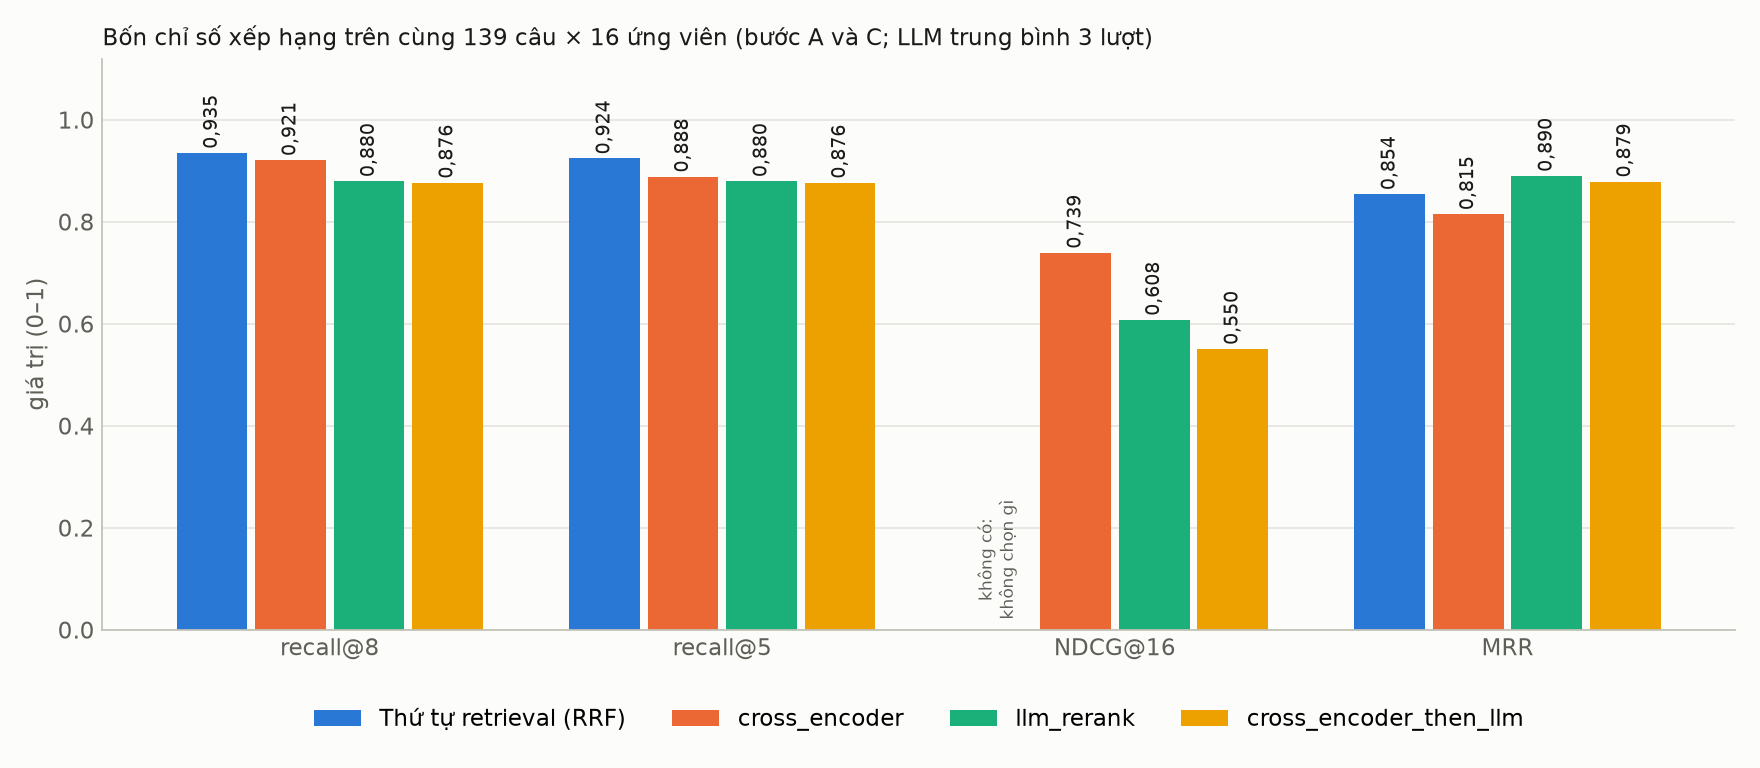
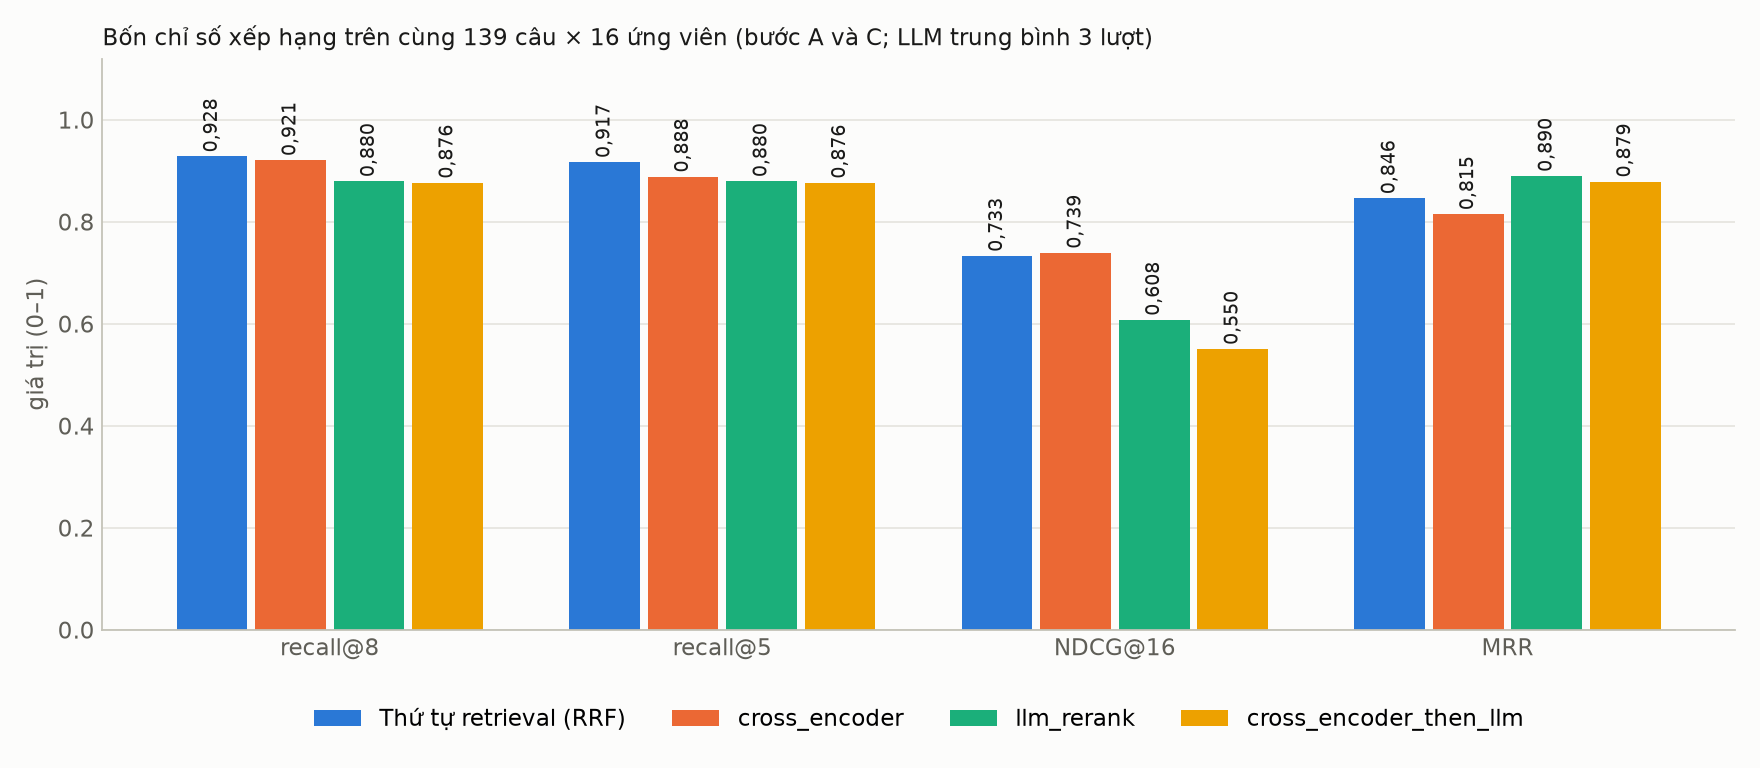
[UNISAGE-106] Báo cáo: mốc "không rerank" đo bằng biến thể none trên cùng bộ ứng viên fetch lại (0,928), sửa hình 1/4 và các bảng
Mốc 0,935 trước đây tính trên danh sách chunk đã ghi (có 37 chunk không còn fetch được), không
cùng gốc với các biến thể. Trên bộ fetch lại: none recall@8 0,928 = trần, recall@5 0,917,
NDCG@16 0,733, MRR 0,846.

diff --git a/changes/22-10-2026-CrossEncoderBenchmark/plot_recall.py b/changes/22-10-2026-CrossEncoderBenchmark/plot_recall.py
@@ -6,7 +6,7 @@ import matplotlib.pyplot as plt
 out = sys.argv[1]
 k = list(range(1, 9))
 series = [
-    ("Thứ tự retrieval (RRF, không rerank)", [0.752, 0.838, 0.867, 0.903, 0.924, 0.932, 0.935, 0.935], "#2a78d6", "o"),
+    ("Thứ tự retrieval (RRF, không rerank)", [0.745, 0.831, 0.860, 0.896, 0.917, 0.924, 0.928, 0.928], "#2a78d6", "o"),
     ("cross_encoder", [0.712, 0.766, 0.831, 0.871, 0.888, 0.906, 0.914, 0.921], "#eb6834", "s"),
     ("llm_rerank", [0.829, 0.868, 0.879, 0.880, 0.880, 0.880, 0.880, 0.880], "#1baf7a", "^"),
     ("cross_encoder_then_llm", [0.811, 0.860, 0.872, 0.874, 0.876, 0.876, 0.876, 0.876], "#eda100", "D"),
@@ -14,9 +14,9 @@ series = [
 plt.rcParams.update({"font.size": 11, "font.family": "DejaVu Sans"})
 fig, ax = plt.subplots(figsize=(10, 5.6), dpi=160)
 fig.patch.set_facecolor("#fcfcfb"); ax.set_facecolor("#fcfcfb")
-ax.axhline(0.935, color="#9a998f", linewidth=1, linestyle=(0, (4, 4)), zorder=1)
-ax.text(1.0, 0.939, "trần của bộ ứng viên 0,935 (tài liệu kỳ vọng có trong 16 ứng viên)", color="#5f5e57", fontsize=9, va="bottom")
-label_offsets = {"Thứ tự retrieval (RRF, không rerank)": 0.006, "cross_encoder": -0.006, "llm_rerank": 0.0, "cross_encoder_then_llm": -0.012}
+ax.axhline(0.928, color="#9a998f", linewidth=1, linestyle=(0, (4, 4)), zorder=1)
+ax.text(1.0, 0.932, "trần của bộ ứng viên 0,928 (tài liệu kỳ vọng có trong các ứng viên fetch lại được)", color="#5f5e57", fontsize=9, va="bottom")
+label_offsets = {"Thứ tự retrieval (RRF, không rerank)": 0.0, "cross_encoder": -0.006, "llm_rerank": 0.0, "cross_encoder_then_llm": -0.012}
 for name, ys, color, marker in series:
     ax.plot(k, ys, color=color, linewidth=2, marker=marker, markersize=7, markerfacecolor=color,
             markeredgecolor="#fcfcfb", markeredgewidth=1.5, label=name, zorder=3)
@@ -25,8 +25,8 @@ for name, ys, color, marker in series:
 ax.set_xlim(0.7, 11.3); ax.set_ylim(0.68, 0.96)
 ax.set_xticks(k); ax.set_xlabel("k (số chunk giữ đầu)")
 ax.set_ylabel("recall@k (trung bình 139 câu)")
-ax.set_yticks([0.70, 0.75, 0.80, 0.85, 0.90, 0.935])
-ax.set_yticklabels([f"{v:.3f}".replace(".", ",").rstrip("0").rstrip(",") if v != 0.935 else "0,935" for v in [0.70, 0.75, 0.80, 0.85, 0.90, 0.935]])
+ax.set_yticks([0.70, 0.75, 0.80, 0.85, 0.90, 0.928])
+ax.set_yticklabels([f"{v:.3f}".replace(".", ",").rstrip("0").rstrip(",") if v != 0.928 else "0,928" for v in [0.70, 0.75, 0.80, 0.85, 0.90, 0.928]])
 ax.grid(axis="y", color="#e6e5df", linewidth=0.8); ax.set_axisbelow(True)
 for side in ("top", "right"): ax.spines[side].set_visible(False)
 for side in ("left", "bottom"): ax.spines[side].set_color("#c3c2b7")

diff --git a/changes/22-10-2026-CrossEncoderBenchmark/plot_all.py b/changes/22-10-2026-CrossEncoderBenchmark/plot_all.py
@@ -71,7 +71,7 @@ ax.set_xticks(levels); ax.set_ylim(0, 10); ax.set_xlabel("số request đồng t
 save(f, "fig3-ce-latency-concurrency.png")
 
 # ---- Fig 4: metrics grouped bars (step A + C + baseline)
-base = {"recall@8": 0.935, "recall@5": 0.924, "NDCG@16": None, "MRR": 0.854}
+base = {"recall@8": 0.928, "recall@5": 0.917, "NDCG@16": 0.733, "MRR": 0.846}
 aggs = {"cross_encoder": ce["aggregate"]}
 for v in Cj["accuracy"]: aggs[v["variant"]] = v["aggregate"]
 metrics = ["recall@8", "recall@5", "NDCG@16", "MRR"]

diff --git a/changes/22-10-2026-CrossEncoderBenchmark/report.md b/changes/22-10-2026-CrossEncoderBenchmark/report.md
@@ -32,7 +32,7 @@ trong các bảng: mục 0.
 | Lỗi | lượt biến thể không trả kết quả (service lỗi, model lỗi, JSON hỏng, rate limit) | trong benchmark không fail-open; trong graph thật thì fail-open |
 | Lượt | số lần chạy = số câu × số lần lặp (cross-encoder 2, LLM 3) | |
 | mốc không rerank | lấy 8 chunk đầu theo thứ tự retrieval, không rerank gì | mức mà bước rerank phải vượt để có ích |
-| trần (ceiling) | recall cao nhất có thể khi chỉ chọn trong 16 ứng viên = tài liệu kỳ vọng có trong 16 ứng viên | không biến thể nào vượt được; 0,935 trên bộ này |
+| trần (ceiling) | recall cao nhất có thể khi chỉ chọn trong 16 ứng viên = tài liệu kỳ vọng có trong 16 ứng viên | không biến thể nào vượt được; 0,928 trên bộ ứng viên fetch lại |
 | RRF | Reciprocal Rank Fusion: cách hybrid trộn danh sách dense và BM25 (điểm = Σ 1/(k + hạng)) | thứ tự "retrieval" trong báo cáo là thứ tự RRF |
 | dense / cosine | tìm theo vector ngữ nghĩa, điểm cosine 0–1 (`score` của chunk) | 0,70 là điểm gán cho chunk chỉ BM25 tìm thấy |
 | BM25 / hybrid | tìm theo từ khoá; hybrid = dense + BM25 trộn bằng RRF | bật qua `RETRIEVAL_HYBRID_ENABLED` |
@@ -107,7 +107,7 @@ tiêu chí nào trượt ở ý chính (độ trễ, recall@8, recall@5 normal, 
 **MRR 0,815 so với 0,890 (tiêu chí 2).** MRR = 1/hạng của chunk đúng đầu tiên. LLM rerank chỉ giữ
 median 2 chunk và khi nó giữ được tài liệu đúng thì gần như luôn đặt ở hạng 1 (recall@1 0,829);
 cross-encoder giữ đủ 8 và ở 23 câu đặt chunk đúng ở hạng 2–4 (recall@1 0,712, thấp hơn cả thứ
-tự retrieval 0,752). Nói cách khác, cross-encoder **không xếp tốt hơn RRF ở hạng 1**, nó chỉ
+tự retrieval 0,745). Nói cách khác, cross-encoder **không xếp tốt hơn RRF ở hạng 1**, nó chỉ
 *không loại nhầm* như LLM. MRR của LLM còn được "lợi" bởi cách tính: 12 câu LLM loại hết tài
 liệu đúng cho MRR = 0 nhưng kéo trung bình xuống ít hơn so với việc cross-encoder xếp đúng ở
 hạng 3 ở nhiều câu. Hệ quả thực tế: ở tầng câu trả lời (prompt đọc cả 8 chunk) MRR thấp hơn
@@ -177,12 +177,15 @@ lượt LLM, vẫn dính rate limit (32 lượt lỗi), p95 cả lượt 17,9 s 
   dùng với các chunk còn lại. 117 câu có 16 ứng viên, 19 câu có 8, 3 câu có 6.
 - Ground truth: `expected_document_ids` của câu. Một chunk "đúng" khi `document_id` của nó nằm
   trong tập kỳ vọng. 130 câu có 1 tài liệu kỳ vọng, 9 câu có 2.
-- **Trần**: tài liệu kỳ vọng có mặt trong 16 ứng viên ở mức recall 0,935. Không biến thể nào
-  vượt được số này: 5 câu (d0040, d0225, d0242, d0296, d0324) không có tài liệu kỳ vọng trong
-  ứng viên; 9 câu có 2 tài liệu kỳ vọng nhưng retrieval chỉ lấy được 1.
-- **Mốc không rerank**: lấy 8 chunk đầu theo thứ tự retrieval → recall@8 0,935 (= trần),
-  recall@5 0,924, MRR 0,854. Mọi bước rerank phải so với mốc này: trên bộ này thứ tự RRF của
-  hybrid đã đưa tài liệu đúng vào top-8 ở mọi câu có thể.
+- **Trần**: tài liệu kỳ vọng có mặt trong các ứng viên fetch lại được ở mức recall **0,928**
+  (0,935 nếu tính cả 37 chunk đã ghi nhưng không còn trong collection; mọi biến thể chỉ thấy
+  bộ fetch lại nên dùng 0,928). Không biến thể nào vượt được số này: 5 câu (d0040, d0225, d0242,
+  d0296, d0324) không có tài liệu kỳ vọng trong ứng viên; 9 câu có 2 tài liệu kỳ vọng nhưng
+  retrieval chỉ lấy được 1.
+- **Mốc không rerank** (biến thể `none` của harness, = `CHAT_RERANK_MODE=none`): lấy 8 chunk đầu
+  theo thứ tự retrieval → recall@8 **0,928 (= trần)**, recall@5 0,917, NDCG@16 0,733, MRR 0,846.
+  Mọi bước rerank phải so với mốc này: trên bộ này thứ tự RRF của hybrid đã đưa tài liệu đúng
+  vào top-8 ở mọi câu có thể.
 
 ### 2.2. Ba biến thể, một chữ ký `select(candidate) -> kept`
 
@@ -240,7 +243,7 @@ Báo cáo gốc: `benchmark_results/step-a-ce-accuracy/` (gitignore). 2 lượt 
 
 | Biến thể | Nhóm | Câu | Lượt | recall@8 | recall@5 | NDCG@16 | MRR | Loại hết | Giữ TB | Lỗi | p50 ms | p95 ms |
 |---|---|---|---|---|---|---|---|---|---|---|---|---|
-| mốc không rerank | tất cả | 139 | — | 0.935 | 0.924 | — | 0.854 | 0% | 8 | — | 0 | 0 |
+| none (mốc không rerank) | tất cả | 139 | 278 | 0.928 | 0.917 | 0.733 | 0.846 | 0.0% | 8.0 | 0 | 0 | 0 |
 | cross_encoder | tất cả | 139 | 278 | 0.921 | 0.888 | 0.739 | 0.815 | 0.0% | 8.0 | 0 | 111 | 147 |
 | cross_encoder | calculation | 26 | 52 | 0.923 | 0.923 | 0.740 | 0.849 | 0.0% | 8.0 | 0 | 103 | 136 |
 | cross_encoder | normal | 113 | 226 | 0.920 | 0.881 | 0.739 | 0.807 | 0.0% | 7.9 | 0 | 111 | 149 |
@@ -251,13 +254,13 @@ Tất định: 2 lượt cho cùng thứ tự ở 139/139 câu (Jaccard 1,000, l
 
 | k | 1 | 2 | 3 | 4 | 5 | 6 | 7 | 8 |
 |---|---|---|---|---|---|---|---|---|
-| thứ tự retrieval (RRF) | 0.752 | 0.838 | 0.867 | 0.903 | 0.924 | 0.932 | 0.935 | 0.935 |
+| thứ tự retrieval (RRF) = `none` | 0.745 | 0.831 | 0.860 | 0.896 | 0.917 | 0.924 | 0.928 | 0.928 |
 | cross_encoder | 0.712 | 0.766 | 0.831 | 0.871 | 0.888 | 0.906 | 0.914 | 0.921 |
 
 ![Đường cong recall@k của 4 cách xếp trên cùng 16 ứng viên](recall-at-k.png)
 
 *Hình 1. recall@k (k = 1..8) trên cùng 16 ứng viên của 139 câu. Đường xanh dương là thứ tự
-retrieval không rerank, chạm trần 0,935 từ k = 7. Cross-encoder (cam) xuất phát thấp hơn ở k = 1
+retrieval không rerank, chạm trần 0,928 từ k = 7. Cross-encoder (cam) xuất phát thấp hơn ở k = 1
 nhưng tiến gần trần ở k = 8. Hai biến thể LLM (lục, vàng) cao nhất ở k = 1–2 rồi phẳng từ k = 3 vì
 chúng chỉ giữ median 2 chunk: phần tài liệu đúng bị loại không bao giờ quay lại dù k tăng. Số của
 hai đường LLM lấy từ bước C (mục 5), vẽ chung để so.*
@@ -266,8 +269,8 @@ hai đường LLM lấy từ bước C (mục 5), vẽ chung để so.*
 
 | Chỉ số | Dùng để chứng minh | Số đo | Kết luận rút ra |
 |---|---|---|---|
-| recall@8 so với **mốc không rerank** và **trần** | Cross-encoder có làm mất tài liệu đúng không khi thay LLM | 0,921 so với mốc 0,935 và trần 0,935 | Mất 1,4 điểm, do 2 câu cụ thể (d0010 bảng tên riêng, d0287 tài liệu trùng tên). Retrieval đã đưa tài liệu đúng vào top-8 ở mọi câu có thể, nên cross-encoder không có chỗ để thêm recall, chỉ có thể giữ hoặc làm rơi |
-| recall@5, MRR, recall@1, đường cong recall@k | Cross-encoder xếp tài liệu đúng cao hơn hay thấp hơn thứ tự RRF | recall@1 0,712 so với 0,752; MRR 0,815 so với 0,854 | Xếp hạng 1 kém RRF một chút: cross-encoder không phải bộ xếp tốt hơn hybrid; giá trị của nó nằm ở chỗ không loại nhầm như LLM (mục 5) |
+| recall@8 so với **mốc không rerank** và **trần** | Cross-encoder có làm mất tài liệu đúng không khi thay LLM | 0,921 so với mốc 0,928 = trần 0,928 | Mất 0,7 điểm, do 2 câu cụ thể (d0010 bảng tên riêng, d0287 tài liệu trùng tên). Retrieval đã đưa tài liệu đúng vào top-8 ở mọi câu có thể, nên cross-encoder không có chỗ để thêm recall, chỉ có thể giữ hoặc làm rơi |
+| recall@5, MRR, recall@1, đường cong recall@k | Cross-encoder xếp tài liệu đúng cao hơn hay thấp hơn thứ tự RRF | recall@1 0,712 so với 0,745; MRR 0,815 so với 0,846 | Xếp hạng 1 kém RRF một chút: cross-encoder không phải bộ xếp tốt hơn hybrid; giá trị của nó nằm ở chỗ không loại nhầm như LLM (mục 5) |
 | Đường cong recall@k từ 1 đến 8 | Chọn K bao nhiêu là đủ | k = 6: 0,906; k = 8: 0,921 | Giữ K = 8; giảm K mất recall |
 | Loại hết 0 %, Giữ TB 8,0 | Cross-encoder không bao giờ làm rỗng sub-query | 0/278 lượt | Mất gate "không tài liệu nào trả lời → web search"; hệ quả thiết kế, xử lý ở mục 8.2 |
 | Jaccard 1,000, cùng thứ tự 100 % ở 2 lượt | Kết quả tất định, tái lập được | 139/139 câu | Eval chạy lại cho cùng số; không cần lặp nhiều lần như LLM |
@@ -284,19 +287,19 @@ Ba điều hay bị đọc nhầm ở mục này:
 - **RRF có mặt vì nó là mốc "không rerank"**: thứ tự retrieval hybrid trả sẵn, miễn phí. Mọi bộ
   rerank phải so với nó; không hơn RRF thì bước rerank chỉ tốn thời gian. Trên corpus này RRF đã
   chạm trần từ k = 7, nên **rerank không thể tăng recall**, chỉ có thể giữ hoặc làm hỏng.
-- **Trần 0,935 không phải "K = 8 thắng LLM"**: trần là giới hạn của bộ ứng viên (tài liệu kỳ vọng
-  có trong 16 ứng viên ở 93,5 % câu). Nó chỉ cho biết cross-encoder (0,921) còn cách tối đa 1,4
-  điểm, tức gần như không làm rơi gì.
+- **Trần 0,928 không phải "K = 8 thắng LLM"**: trần là giới hạn của bộ ứng viên (tài liệu kỳ vọng
+  có trong các ứng viên fetch lại ở 92,8 % câu). Nó chỉ cho biết cross-encoder (0,921) còn cách
+  tối đa 0,7 điểm, tức gần như không làm rơi gì.
 - **Lập luận đúng để thay LLM**: "RRF đã gần tối ưu; cross-encoder giữ nguyên mức đó với 0,11 s;
   LLM rerank làm rơi 4 điểm recall@8 với 1,7 s" (số LLM ở mục 5, câu trả lời cuối ở mục 7). Hình 1
   vẽ chung bốn đường để nhìn một lần, nhưng hai đường LLM là số của mục 5.
 
 **Đọc số**
 
-- Cross-encoder **thấp hơn mốc không rerank** 1,4 điểm recall@8, 3,6 điểm recall@5 và 3,9 điểm
+- Cross-encoder **thấp hơn mốc không rerank** 0,7 điểm recall@8, 2,9 điểm recall@5 và 3,1 điểm
   MRR. Trên bộ này thứ tự RRF của hybrid đã xếp tài liệu đúng cao; cross-encoder xếp lại không
   thêm tài liệu nào (không thể, vì trần = mốc) mà làm rơi 2 câu và đẩy chunk đúng xuống vài
-  hạng ở một số câu (recall@1 0,712 so với 0,752).
+  hạng ở một số câu (recall@1 0,712 so với 0,745).
 - 2 câu rơi (tài liệu đúng trong top-8 retrieval nhưng cross-encoder chấm ra ngoài):
   - **d0010** "đề tài triển khai an ninh mạng ... do giảng viên nào hướng dẫn": tài liệu đúng là
     bảng danh sách hội đồng poster (retrieval hạng 1–4, 6, 13, 14); cross-encoder cho điểm cao
@@ -307,7 +310,7 @@ Ba điều hay bị đọc nhầm ở mục này:
   - **d0287** "điều kiện Đạt chứng chỉ ứng dụng CNTT": kỳ vọng là tài liệu "ca 2", cross-encoder
     giữ 5 chunk của "ca 1" và "phúc khảo" (cùng câu điều kiện). Metric theo document_id phạt;
     câu trả lời thực tế đúng. Lỗi áp lên mọi biến thể như nhau.
-- 13 câu còn lại dưới 1,0 là do bộ ứng viên (trần 0,935), không phải lỗi rerank.
+- 13 câu còn lại dưới 1,0 là do bộ ứng viên (trần 0,928), không phải lỗi rerank.
 - Phân phối điểm (logit) của chunk top-1: khi đúng median 5,73 (min −0,83); khi sai median 3,54
   (max 8,28). Hai phân phối chồng nhau nhiều → **không** dùng ngưỡng điểm làm gate thay LLM
   (đúng giả định spec). Có thể dùng điểm để *ưu tiên* nhưng không để *loại*.
@@ -390,7 +393,7 @@ vì rate limit, kết quả đó bị bỏ, không tính.
 
 | Biến thể | Nhóm | Câu | Lượt | recall@8 | recall@5 | NDCG@16 | MRR | Loại hết | Giữ TB | Lỗi | p50 ms | p95 ms |
 |---|---|---|---|---|---|---|---|---|---|---|---|---|
-| mốc không rerank | tất cả | 139 | — | 0.935 | 0.924 | — | 0.854 | 0% | 8 | — | 0 | 0 |
+| none (mốc không rerank) | tất cả | 139 | 278 | 0.928 | 0.917 | 0.733 | 0.846 | 0.0% | 8.0 | 0 | 0 | 0 |
 | cross_encoder | tất cả | 139 | 278 | 0.921 | 0.888 | 0.739 | 0.815 | 0.0% | 8.0 | 0 | 111 | 147 |
 | llm_rerank | tất cả | 139 | 417 | 0.880 | 0.880 | 0.608 | 0.890 | 2.7% | 2.6 | 2 | 1819 | 3183 |
 | llm_rerank | calculation | 26 | 78 | 0.922 | 0.922 | 0.641 | 0.883 | 3.9% | 3.0 | 1 | 1812 | 3415 |
@@ -403,7 +406,7 @@ vì rate limit, kết quả đó bị bỏ, không tính.
 
 | k | 1 | 2 | 3 | 4 | 5 | 6 | 7 | 8 |
 |---|---|---|---|---|---|---|---|---|
-| thứ tự retrieval | 0.752 | 0.838 | 0.867 | 0.903 | 0.924 | 0.932 | 0.935 | 0.935 |
+| thứ tự retrieval = `none` | 0.745 | 0.831 | 0.860 | 0.896 | 0.917 | 0.924 | 0.928 | 0.928 |
 | cross_encoder | 0.712 | 0.766 | 0.831 | 0.871 | 0.888 | 0.906 | 0.914 | 0.921 |
 | llm_rerank | 0.829 | 0.868 | 0.879 | 0.880 | 0.880 | 0.880 | 0.880 | 0.880 |
 | cross_encoder_then_llm | 0.811 | 0.860 | 0.872 | 0.874 | 0.876 | 0.876 | 0.876 | 0.876 |
@@ -439,8 +442,8 @@ cho cùng tập giữ qua 3 lượt (Jaccard 0,82).*
 
 - **LLM rerank là bộ lọc, không phải bộ xếp**: giữ median 2 chunk trên 16. Vì thế recall@8 =
   recall@5 = recall@3 (0,880), đường cong phẳng từ k=3. Nó thấp hơn cross-encoder 4,1 điểm và
-  mốc không rerank 5,5 điểm vì **loại bỏ** tài liệu đúng ở 12 câu mà cross-encoder còn giữ.
-- **LLM xếp đúng hơn ở đầu danh sách**: recall@1 0,829 so với 0,712 của cross-encoder và 0,752
+  mốc không rerank 4,8 điểm vì **loại bỏ** tài liệu đúng ở 12 câu mà cross-encoder còn giữ.
+- **LLM xếp đúng hơn ở đầu danh sách**: recall@1 0,829 so với 0,712 của cross-encoder và 0,745
   của retrieval; MRR 0,890 so với 0,815. Khi LLM giữ được tài liệu đúng, nó đặt đúng chunk lên
   đầu. Giá trị này chỉ có nghĩa nếu model sinh chịu ảnh hưởng mạnh bởi thứ tự; với prompt 8
   chunk thì recall@8 quyết định nhiều hơn (mục 7 xác nhận: tầng câu trả lời theo cross-encoder
@@ -788,7 +791,7 @@ tiếp theo thì ưu tiên hai chỗ đó hơn là tinh chỉnh rerank.
 |---|---|---|---|
 | Độ trễ bước rerank p50 / p95 | 1,7 s / 3,3 s | **0,11 s / 0,15 s** | 1,7 s / 2,6 s |
 | Độ trễ cả lượt p50 / p95 (eval) | 5,3 s / 9,5 s | **4,6 s / 7,5 s** | 6,6 s / 17,9 s |
-| recall@8 bước rerank | 0,880 | **0,921** | 0,876 |
+| recall@8 bước rerank (mốc `none` 0,928) | 0,880 | **0,921** | 0,876 |
 | normal recall@5 e2e | 89,7 % | **94,8 %** | 93,1 % |
 | calculation pass e2e | 18/38 | 20/38 | **21/38** |
 | Từ chối trả lời | 41 | 32 | **29** |
